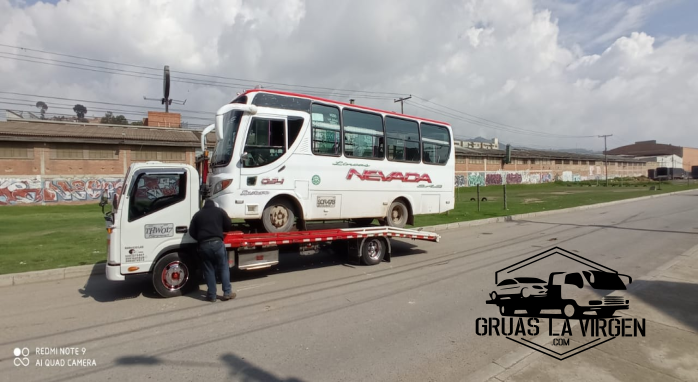
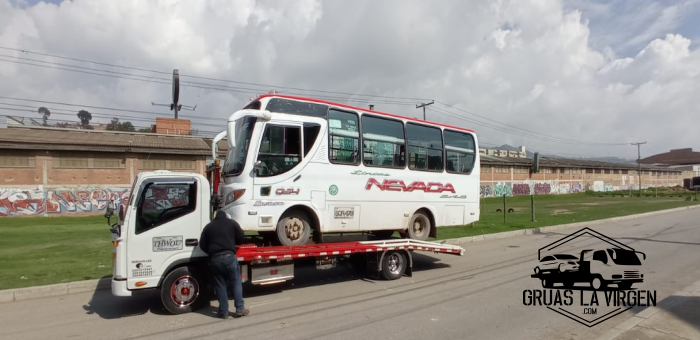
cambio ajuste de imagenes

diff --git a/index.html b/index.html
@@ -2,65 +2,66 @@
 <html lang="en">
 
 <head>
-    <!-- Required meta tags -->
-    <meta charset="utf-8">
-    <meta name="viewport" content="width=device-width, initial-scale=1, shrink-to-fit=no">
-    <link rel="stylesheet" href="gruas.css">
+  <!-- Required meta tags -->
+  <meta charset="utf-8">
+  <meta name="viewport" content="width=device-width, initial-scale=1, shrink-to-fit=no">
+  <link rel="stylesheet" href="gruas.css">
 
-    <!-- Bootstrap CSS -->
-    <link rel="stylesheet" href="https://stackpath.bootstrapcdn.com/bootstrap/4.4.1/css/bootstrap.min.css"
-        integrity="sha384-Vkoo8x4CGsO3+Hhxv8T/Q5PaXtkKtu6ug5TOeNV6gBiFeWPGFN9MuhOf23Q9Ifjh" crossorigin="anonymous">
+  <!-- Bootstrap CSS -->
+  <link rel="stylesheet" href="https://stackpath.bootstrapcdn.com/bootstrap/4.4.1/css/bootstrap.min.css"
+    integrity="sha384-Vkoo8x4CGsO3+Hhxv8T/Q5PaXtkKtu6ug5TOeNV6gBiFeWPGFN9MuhOf23Q9Ifjh" crossorigin="anonymous">
 
-    <title>Gruas la virgen</title>
+  <title>Gruas la virgen</title>
 </head>
 
-<body class="bg-dark">
-    <div class="container">
-        <div id="titulo" class="row">
-            <div class="col-12 text-center bg-warning rounded border-left-0 border border-ligth"><img src="./images/logo.png"></div>
-        </div>
-        <div id="titulo" class="row justify-content-center">
-            <div id="carousel" class="carousel slide" data-ride="carousel">
-                <div class="carousel-inner">
-                  <div class="carousel-item active">
-                      <img src="./images/gru1.png" class="d-block w-80 ">
-                  </div>
-                  <div class="carousel-item ">
-                    <img src="./images/gru2.png" class="d-block w-80">
-                  </div>
-                  <div class="carousel-item">
-                    <img src="./images/gru3.png" class="d-block w-100">
-                  </div>
-                  <div class="carousel-item">
-                    <img src="./images/gru4.png" class="d-block w-100">
-                  </div>
-                  <div class="carousel-item">
-                    <img src="./images/gru5.png" class="d-block w-100">
-                  </div>
-                  <div class="carousel-item">
-                    <img src="./images/gru6.png" class="d-block w-100">
-                  </div>
-                </div>
-              </div>
-        </div>
+<body>
+  <div class="container">
+    <div id="titulo" class="row">
+      <div class="col-12 text-center bg-warning rounded border-left-0 border border-info"><img src="./images/logo.png">
+      </div>
     </div>
+    <div id="titulo" class="row justify-content-center">
+      <div id="carousel" class="carousel slide border border-info border-left-0" data-ride="carousel">
+        <div class="carousel-inner">
+          <div class="carousel-item active">
+            <img src="./images/gru1.png" class="d-block ">
+          </div>
+          <div class="carousel-item ">
+            <img src="./images/gru2.png" class="d-block ">
+          </div>
+          <div class="carousel-item">
+            <img src="./images/gru3.png" class="d-block">
+          </div>
+          <div class="carousel-item">
+            <img src="./images/gru4.png" class="d-block">
+          </div>
+          <div class="carousel-item">
+            <img src="./images/gru5.png" class="d-block ">
+          </div>
+          <div class="carousel-item">
+            <img src="./images/gru6.png" class="d-block w-100">
+          </div>
+        </div>
+      </div>
+    </div>
+  </div>
 
 
 
-    <!-- Optional JavaScript -->
-    <!-- jQuery first, then Popper.js, then Bootstrap JS -->
-    <script>$('.carousel').carousel({
-        interval: 1500
-      })</script>
-    <script src="https://code.jquery.com/jquery-3.4.1.slim.min.js"
-        integrity="sha384-J6qa4849blE2+poT4WnyKhv5vZF5SrPo0iEjwBvKU7imGFAV0wwj1yYfoRSJoZ+n"
-        crossorigin="anonymous"></script>
-    <script src="https://cdn.jsdelivr.net/npm/popper.js@1.16.0/dist/umd/popper.min.js"
-        integrity="sha384-Q6E9RHvbIyZFJoft+2mJbHaEWldlvI9IOYy5n3zV9zzTtmI3UksdQRVvoxMfooAo"
-        crossorigin="anonymous"></script>
-    <script src="https://stackpath.bootstrapcdn.com/bootstrap/4.4.1/js/bootstrap.min.js"
-        integrity="sha384-wfSDF2E50Y2D1uUdj0O3uMBJnjuUD4Ih7YwaYd1iqfktj0Uod8GCExl3Og8ifwB6"
-        crossorigin="anonymous"></script>
+  <!-- Optional JavaScript -->
+  <!-- jQuery first, then Popper.js, then Bootstrap JS -->
+  <script>$('.carousel').carousel({
+      interval: 1500
+    })</script>
+  <script src="https://code.jquery.com/jquery-3.4.1.slim.min.js"
+    integrity="sha384-J6qa4849blE2+poT4WnyKhv5vZF5SrPo0iEjwBvKU7imGFAV0wwj1yYfoRSJoZ+n"
+    crossorigin="anonymous"></script>
+  <script src="https://cdn.jsdelivr.net/npm/popper.js@1.16.0/dist/umd/popper.min.js"
+    integrity="sha384-Q6E9RHvbIyZFJoft+2mJbHaEWldlvI9IOYy5n3zV9zzTtmI3UksdQRVvoxMfooAo"
+    crossorigin="anonymous"></script>
+  <script src="https://stackpath.bootstrapcdn.com/bootstrap/4.4.1/js/bootstrap.min.js"
+    integrity="sha384-wfSDF2E50Y2D1uUdj0O3uMBJnjuUD4Ih7YwaYd1iqfktj0Uod8GCExl3Og8ifwB6"
+    crossorigin="anonymous"></script>
 </body>
 
 </html>

diff --git a/gruas.css b/gruas.css
@@ -10,3 +10,7 @@
 #carousel{
     align-items: center;
 }
+.carousel-item>img{
+    width: 600px;
+    height: 350px;
+}
